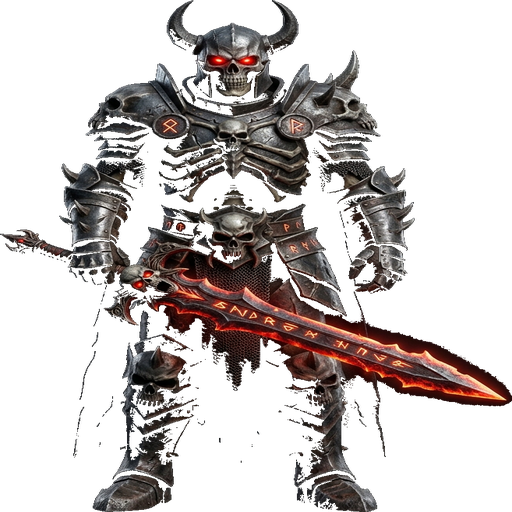
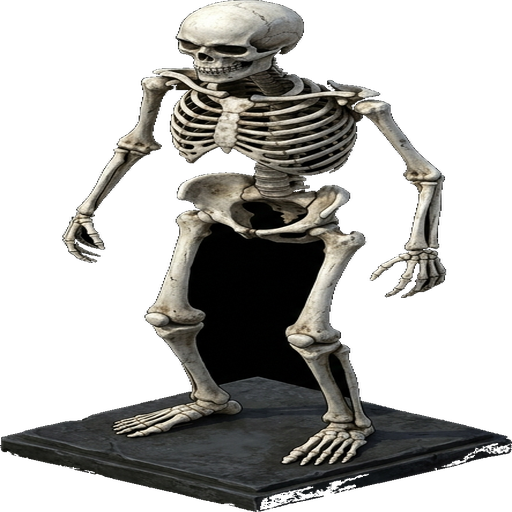
feat: regenerate skeleton to pure skeleton, place skeleton soldier in every level

diff --git a/src/components/CodingMazeGame.jsx b/src/components/CodingMazeGame.jsx
@@ -242,6 +242,31 @@ const LEVELS = RAW_LEVELS.map((lvl, idx) => {
     }
   }
 
+  // 确保每一关都包含至少一个骷髅士兵
+  if (!newLvl.enemies) newLvl.enemies = [];
+  const hasSkeleton = newLvl.enemies.some(e => e.type === 'skeleton');
+  if (!hasSkeleton) {
+    let skeletonPos = null;
+    for (let r = 0; r < newLvl.size; r++) {
+      for (let c = 0; c < newLvl.size; c++) {
+        if ((r === newLvl.start.r && c === newLvl.start.c) || (r === newLvl.target.r && c === newLvl.target.c)) continue;
+        if (newLvl.obstacles.some(o => o.r === r && o.c === c)) continue;
+        if (newLvl.enemies.some(e => e.start && e.start.r === r && e.start.c === c)) continue;
+        skeletonPos = { r, c };
+        break;
+      }
+      if (skeletonPos) break;
+    }
+    if (skeletonPos) {
+      const commandsList = idx < 5 ? ['NONE'] : ['LEFT', 'RIGHT'];
+      newLvl.enemies.push({
+        type: 'skeleton',
+        start: skeletonPos,
+        commands: commandsList
+      });
+    }
+  }
+
   return newLvl;
 });
 